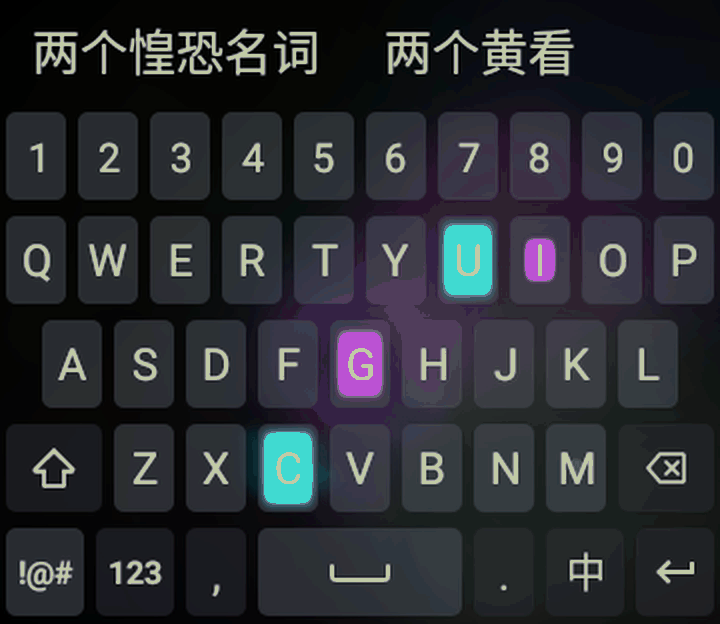
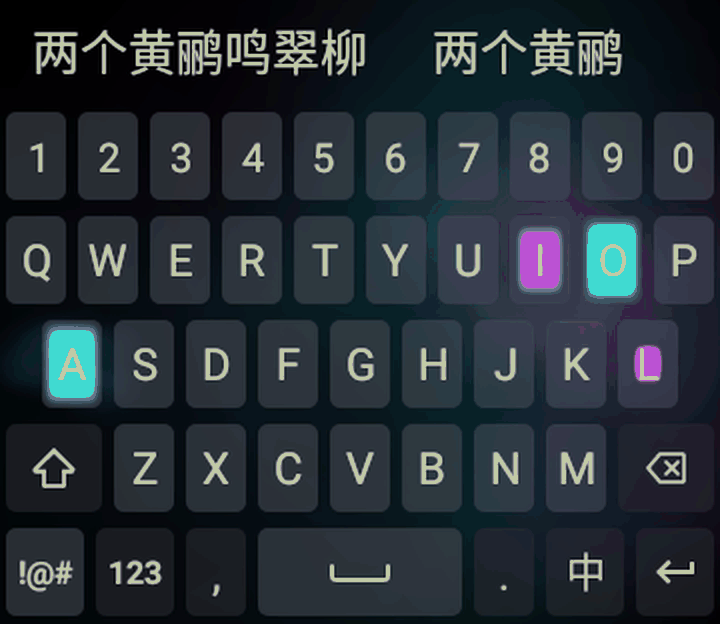
Show completed phrase in the still preview

diff --git a/validation/v09/REVIEW.md b/validation/v09/REVIEW.md
@@ -33,7 +33,7 @@
 
 - `10-samsung-key-surfaces.gif`：这次调整后的连续输入动图，同样每 132 ms 一键；键面更亮、外围叠加更淡，字符预览下半部透明。来源与参数见 `key-surfaces-preview.json`。`09` 保留为上一版对照。
 
-- 手机端展示补充：`typing-preview.mp4` 为约 370 KB 的 H.264 视频，`typing-preview-small.gif` 为 360×312、20 fps 的小版动图，`typing-preview.png` 为 2.70 秒处静态帧。均转自 `10-samsung-key-surfaces.gif`，没有调整播放速度或修改动画代码。
+- 手机端展示补充：`typing-preview.mp4` 为约 370 KB 的 H.264 视频，`typing-preview-small.gif` 为 360×312、20 fps 的小版动图，`typing-preview.png` 为 3.40 秒处完整诗句候选的静态帧。均转自 `10-samsung-key-surfaces.gif`，没有调整播放速度或修改动画代码。
 
 ## 验证
 
